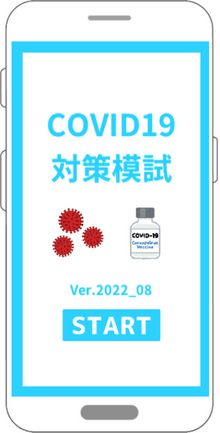
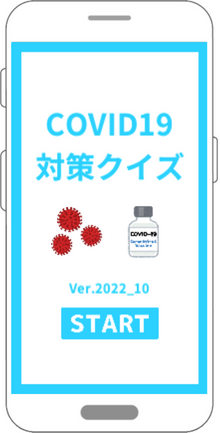
ゲーム画像を差し替え、ゲーム解説セクションの文章を修正、target属性の設定を変更

diff --git a/index.html b/index.html
@@ -170,11 +170,11 @@
       <div class="game-comment-flex">
         <div class="game-comments">
           <p class="game-comment-section-paragraph-2">
-            「COVID19対策クイズ」は新型コロナウイルス感染症（COVID19）の特徴や基本的感染対策に関する知識を確認することを目的としています。
+            「COVID19対策クイズ」は新型コロナウイルス感染症（COVID19）に関する適切な感染対策を確認することを目的としています。
           </p>
           <br />
           <p class="game-comment-section-paragraph-3">
-            クイズを通して基本的感染対策を再確認いただき、感染症から日常生活を守っていきましょう。
+            今後の感染拡大を防ぐために、ぜひクイズを通してご自身の剣線対策への理解度を再確認してみてください。
           </p>
         </div>
         <div class="game-comment-images">
@@ -249,7 +249,6 @@
     <div class="sns-section">
       <a
         href="https://www.youtube.com/channel/UCSbfb0q4ax5bAC-sXiPNR5A"
-        target="_blank"
         ><img
           src="./images/youtube-icon.png"
           class="youtube-icon"
@@ -258,7 +257,7 @@
           height="52"
         />
       </a>
-      <a href="https://twitter.com/kanboukansen" target="_blank"
+      <a href="https://twitter.com/kanboukansen"
         ><img
           src="./images/twitter-icon.png"
           class="twitter-icon"
